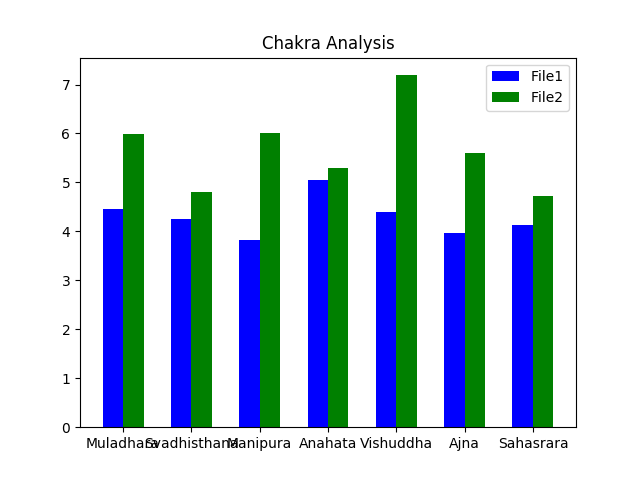
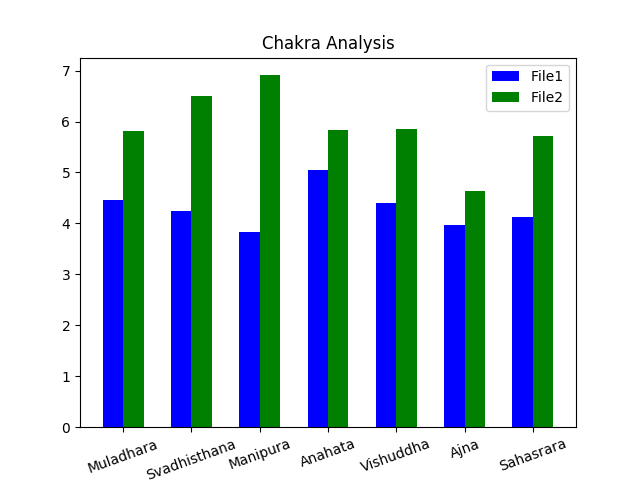
GRAPH UPDATE

diff --git a/AuraSite/App/Scripts/comparison.py b/AuraSite/App/Scripts/comparison.py
@@ -111,7 +111,7 @@ def compare(file1,file2):
 	graph.set_title('Chakra Analysis')
 	
 	graph.set_xticks(ind + width / 2)
-	graph.set_xticklabels(x_chakra)
+	graph.set_xticklabels(x_chakra,rotation=20)
 	
 	graph.legend((g1[0], g2[0]), ('File1', 'File2'))
 	graph.autoscale_view()
